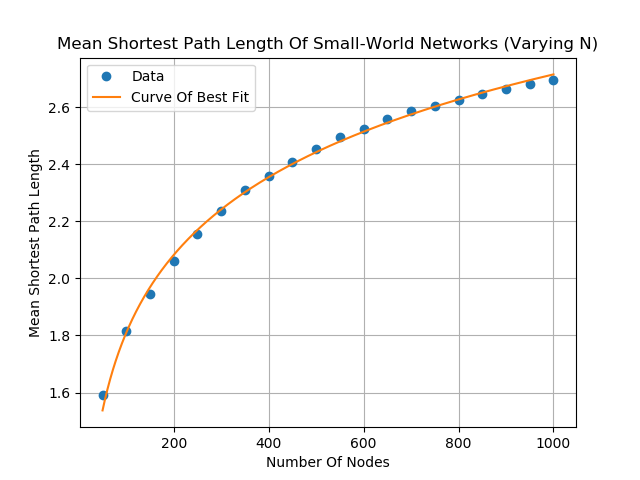
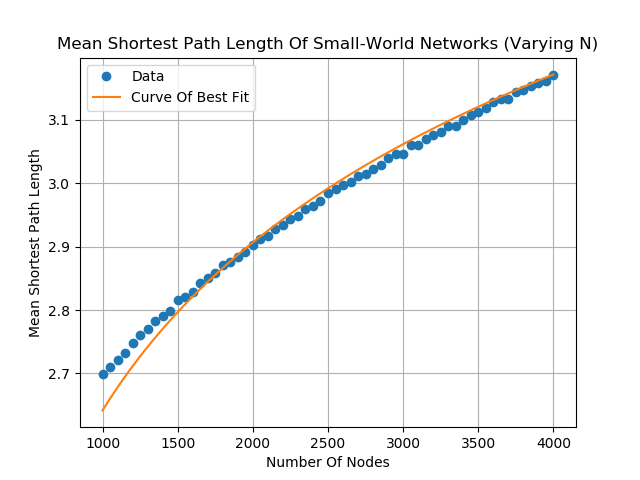
Further changes to presentation material to demonstrate closer fits to data.

diff --git a/Small-World Networks - Clustering Coefficients.py b/Small-World Networks - Clustering Coefficients.py
@@ -21,11 +21,11 @@ def ExpectedClusteringValue(k, p):
 #--------------------------------------------------------------------------------------------------
 #
 # Initialise the probability and N array.
-probability = 0.50
-N_Array = np.arange(50, 1050, 50)
+probability = 0.5
+N_Array = np.arange(1000, 4050, 50)
 
-proportionOfAverageDegree = 20/50
-averageDegree = 5
+#proportionOfAverageDegree = 20/50
+averageDegree = 10
 
 # Compute the clustering coefficient values.
 clusteringCoefficientArray = np.zeros(N_Array.shape[0])
@@ -57,20 +57,21 @@ N_Array, clusteringCoefficientArray = IO.ReadPlottingDataFromTxtFile(fileDestina
 
 # Plot the resulting data.
 plt.figure()
-plt.plot(N_Array, clusteringCoefficientArray, 'o')
+plt.plot(N_Array, clusteringCoefficientArray, 'o', label='Data')
 
 #expectedClusteringValue = ((3*(averageDegree -1)) / (2*((2*averageDegree) - 1))) * ((1 - probability)**3)
 
-plt.plot(N_Array, ExpectedClusteringValue(averageDegree, probability)*(N_Array**0))
+plt.plot(N_Array, ExpectedClusteringValue(averageDegree, probability)*(N_Array**0), label='Line Of Best Fit')
 
-plt.ylim(0, 1)
+plt.ylim(0, 0.5)
+plt.legend(loc='best')
 plt.xlabel("Number Of Nodes")
 plt.ylabel("Clustering Coefficient")
 plt.title("Clustering Coefficients Of Small-World Networks (Varying N)")
 plt.grid()
 plt.savefig('NetworkTypes/SmallWorld_Network/Average Clustering Coefficients Of Small-World Networks(Varying N)')
 
-
+'''
 #--------------------------------------------------------------------------------------------------
 # This section looks at a fixed node number and varying probability, to determine how the
 # clustering coefficient changes over a range of probabilities.
@@ -118,4 +119,4 @@ plt.show()
 # Output the data to a .txt file.
 fileDestination = 'NetworkTypes/SmallWorld_Network/AverageClusteringCoefficients (Varying P).txt'
 IO.WritePlottingDataToTxtFile(fileDestination, "P", P_Array, "Difference", clusteringCoefficientArray)
-
+'''

diff --git a/Small-World Networks - Degree Distribution.py b/Small-World Networks - Degree Distribution.py
@@ -17,8 +17,8 @@ from SupportingFunctions import Input_Output_Support_Functions as IO
 #------------------------------------------------------------------------------------------
 
 N = 1000
-averageDegree = 10
-probability = 0.75
+averageDegree =20
+probability = 0.5
 
 #G = nx.watts_strogatz_graph(N, averageDegree, probability)
 #plt.figure()
@@ -46,9 +46,9 @@ print ('Fitted Number Of Neighboring Nodes = ' + str(popt[0]))
 print ('Fitted Probability = ' + str(popt[1]))
 
 jArray = np.linspace(degreeDistribution[0,0], degreeDistribution[0, -1], 1000)
-plt.plot(jArray, N * Distribution_Analysis_Functions.DiracDeltaFunction(jArray, popt[0], popt[1]), label='Curve Of Best Fit')
+plt.plot(jArray - 20, N * Distribution_Analysis_Functions.DiracDeltaFunction(jArray, popt[0], popt[1]), label='Curve Of Best Fit')
 
-
+plt.xlim(0, 200)
 plt.grid()
 plt.legend(loc='best')
 plt.xlabel('Degree')
@@ -57,8 +57,19 @@ plt.title('Degree Distribution Of Small-World Networks, N = ' + str(N))
 plt.savefig("NetworkTypes/SmallWorld_Network/Small-World Networks - Degree Distribution.png")
 
 plt.figure()
-plt.loglog(degreeDistribution[0,:], degreeDistribution[1,:], 'o')
+
+array1, array2 = IO.CleanArraysOfZeroValues(degreeDistribution[0, :], degreeDistribution[1, :])
+array1 = np.log(array1)
+array2 = np.log(array2)
+
+plt.plot(array1, array2, 'o', label='Data')
 #plt.loglog(jArray, N * Distribution_Analysis_Functions.DiracDeltaFunction(jArray, popt[0], popt[1]))
+
+plt.legend(loc='best')
+plt.xlabel('Degree')
+plt.ylabel('Number Of Nodes')
+plt.title('Log-Log Degree Distribution Of Small-World Networks, N = ' + str(N))
+plt.savefig("NetworkTypes/SmallWorld_Network/Small-World Networks - LogLog Degree Distribution.png")
 plt.show()
 
 #------------------------------------------------------------------------------------------

diff --git a/Diagram_Playground.py b/Diagram_Playground.py
@@ -2,30 +2,55 @@ import numpy as np
 import networkx as nx
 import matplotlib.pyplot as plt
 
-import Regular_Network
-import Random_Network
-import SmallWorld_Network
-#import ScaleFree_Network
+from NetworkTypes.Regular_Network import Regular_Network
+from NetworkTypes.Random_Network import Random_Network
+from NetworkTypes.SmallWorld_Network import SmallWorld_Network
+from NetworkTypes.ScaleFree_Network import ScaleFree_Network
 
-import Network_Analysis_Functions
+#import Network_Analysis_Functions
 
 
 # Define the number of nodes.
-
-adjacencyMatrix = np.array([[0, 1, 1, 1],
-                            [1, 0, 0, 0],
-                            [1, 0, 0, 0],
-                            [1, 0, 0, 0]])
-
+'''
+adjacencyMatrix = Random_Network.GenerateAdjacencyMatrix(20, 0.25)
 
 G = nx.from_numpy_matrix(adjacencyMatrix)
 
+#
+plt.figure()
+
+#nx.draw(G)# with_labels = True, font_weight = 'bold')
+print(nx.number_of_edges(G))
+d = nx.degree(G)
+d = [(d[node]+1) * 20 for node in G.nodes()]
+nx.draw(G, node_size=d, alpha=0.5)
+
+
+plt.show()
+'''
+
+
+G = nx.watts_strogatz_graph(50, 5, 0.2)
+print(nx.number_of_edges(G))
 
 plt.figure()
-nx.draw(G, with_labels = True, font_weight = 'bold')
+
+d = nx.degree(G)
+d = [(d[node]+1) * 20 for node in G.nodes()]
+
+nx.draw_spring(G, node_size=d, alpha=0.5)
 plt.show()
 
 
+'''
+G = nx.barabasi_albert_graph(50, 1)
+print(nx.number_of_edges(G))
 
+plt.figure()
 
+d = nx.degree(G)
+d = [(d[node]+1) * 20 for node in G.nodes()]
 
+nx.draw(G, node_size=d, alpha=0.5)
+plt.show()
+'''

diff --git a/Scale-Free Networks - Average Shortest Path Length.py b/Scale-Free Networks - Average Shortest Path Length.py
@@ -23,7 +23,7 @@ def ExpectedPathLengthCurve(array, verticalTranslation, scalingFactor):
 # Initialise the probability and N array.
 N_Array = np.arange(1000, 4050, 50)
 
-    
+'''
 # Compute the clustering coefficient values.
 averageShortestPathLengths = np.zeros(N_Array.shape[0])
 
@@ -46,7 +46,7 @@ for i in range(0, N_Array.shape[0]):
 # Output the data to a .txt file.
 fileDestination = 'NetworkTypes/ScaleFree_Network/AverageShortestPathLengths (Varying N).txt'
 IO.WritePlottingDataToTxtFile(fileDestination, "N", N_Array, "Difference", averageShortestPathLengths)
-
+'''
 fileDestination = 'NetworkTypes/ScaleFree_Network/AverageShortestPathLengths (Varying N).txt'
 N_Array, averageShortestPathLengths = IO.ReadPlottingDataFromTxtFile(fileDestination)
 
@@ -59,7 +59,7 @@ plt.plot(N_Array, averageShortestPathLengths, 'o', label='Data')
 popt, pcov = curve_fit(
                    ExpectedPathLengthCurve,
                    N_Array, averageShortestPathLengths,
-                   1, 1)
+                   (1, 1))
 
 xArray = np.linspace(N_Array[0], N_Array[-1], 1000)
 plt.plot(xArray, ExpectedPathLengthCurve(xArray, popt[0], popt[1]), label='Curve Of Best Fit')

diff --git a/Small-World Networks - Average Shortest Path Length.py b/Small-World Networks - Average Shortest Path Length.py
@@ -17,7 +17,7 @@ from SupportingFunctions import Input_Output_Support_Functions as IO
 
 # Initialise the probability and N array.
 probability = 0.50
-N_Array = np.arange(50, 1050, 50)
+N_Array = np.arange(1000, 4050, 50)
 
 
 # Create the adjacency matrices for varying N.
